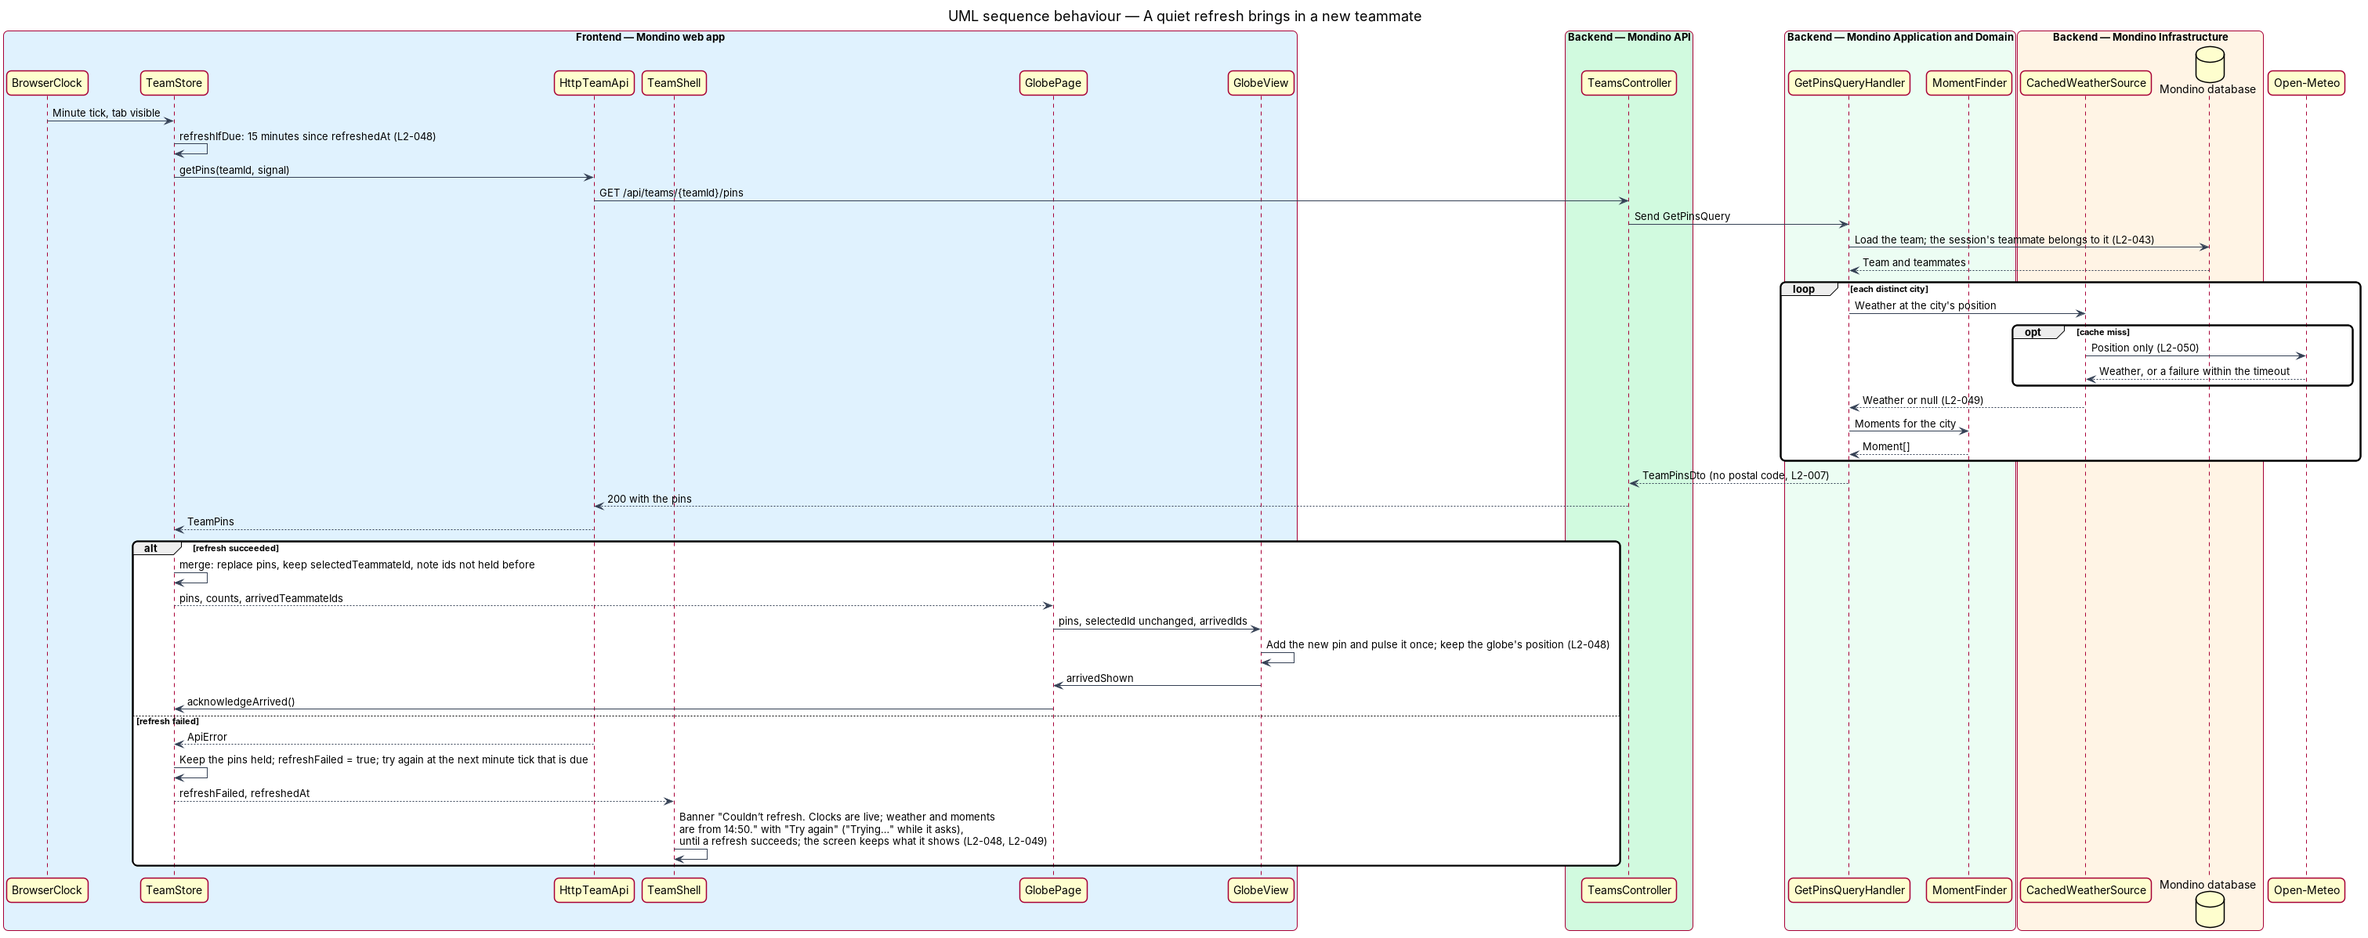
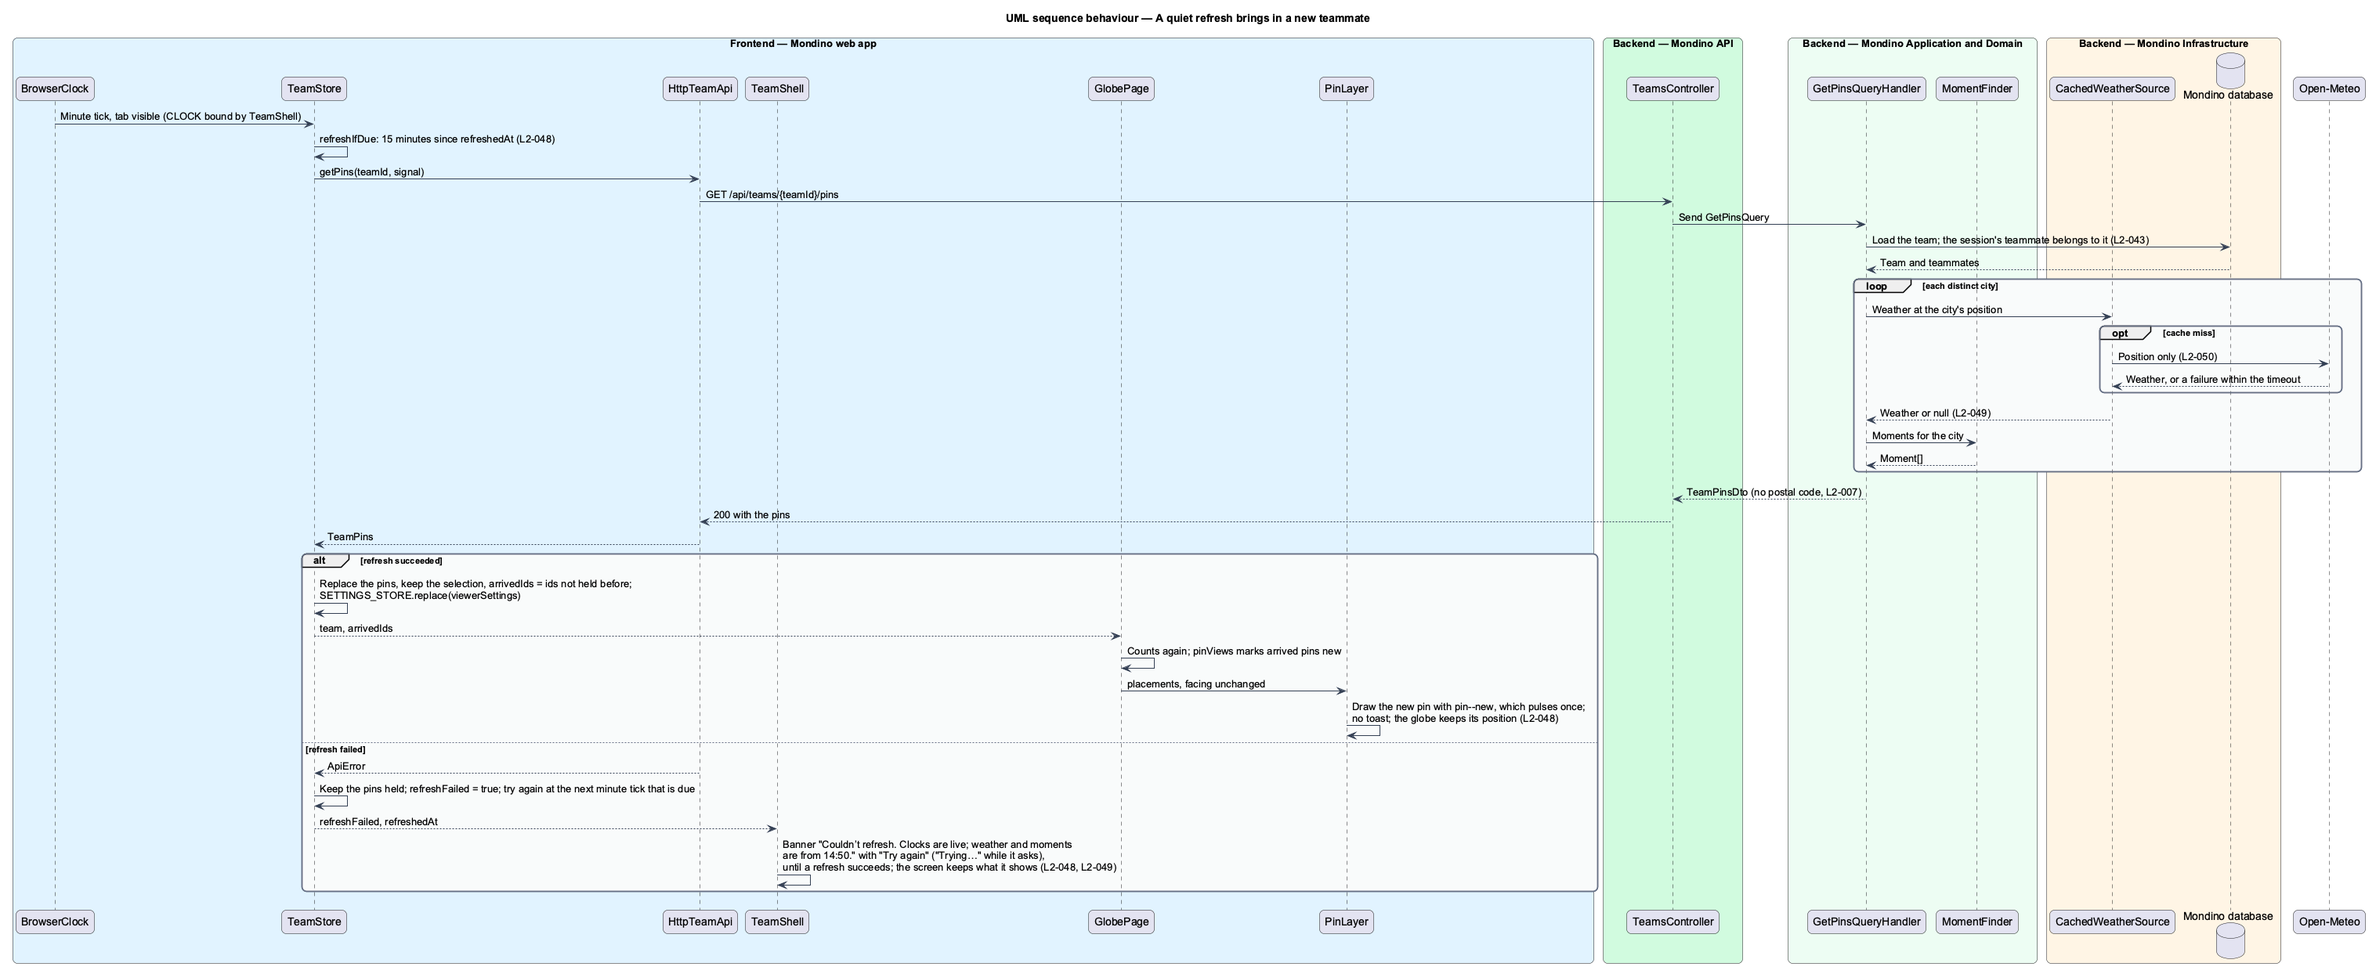
Design the quiet refresh on one shell clock, with the viewer's settings in the pins
ADR 0025 binds CLOCK in TeamShell for its four screens, rides the refresh on its
minute tick and carries the asker's own settings in GET /pins; the design, its
diagrams, the shared contracts and ADRs 0012 and 0023 follow, and the prompt
takes the mock's banner words.

Changed region(s): [[0.0, 0.0, 1.0, 1.0], [0.2488, 0.1853, 0.3733, 0.2162], [0.4355, 0.7104, 0.4666, 0.7412]]

diff --git a/docs/detailed-designs/team/keep-team-fresh/README.md b/docs/detailed-designs/team/keep-team-fresh/README.md
@@ -28,60 +28,68 @@ The slice runs from the `TeamStore` in the browser to the Mondino database and O
 
 Frontend:
 
-- **`TeamStore`** — signal store in `domain`'s `pins/`, provided at the route that holds the
-  Globe, Team, Moments and Profile & Settings screens. It injects `TEAM_API` and `CLOCK`.
-  `load(teamId)` reads the pins once when the route opens. An effect on the clock's minute tick
-  calls `refreshIfDue(now)`, which calls `refresh()` when `RefreshIntervalMinutes` (15) or more
-  have passed since `refreshedAt` and no request is pending (L2-048). The store has no
-  timer of its own.
-- **`BrowserClock`** — the one shared clock, bound to `CLOCK`. It ticks each minute, stops its
-  timer while the tab is hidden and ticks at once when the tab is shown again. Because the
-  store refreshes only on a tick, a hidden tab makes no refresh, and a tab hidden for 15 minutes
-  or more refreshes at once on return, with no visibility listener in the store.
-- **`merge(next)`** — replaces `pins` with the pins received. It keeps `selectedTeammateId` when
-  that teammate is still on the team and clears it when they have left. It records in
-  `arrivedTeammateIds` each teammate id that was not held before; the first load records none.
-  `pins` holds one team's pins, at most 500, and each refresh replaces them, so nothing
-  accumulates over a day.
-- **`arrivedTeammateIds`** — ids whose pins are new since the last refresh. `GlobePage` passes
-  them to `GlobeView` as `arrivedIds`; the globe pulses each new pin once (not under reduced
-  motion) and emits `arrivedShown`, and `GlobePage` calls `acknowledgeArrived()`, which empties
-  the list. `arrivedIds` and `arrivedShown` are an input and an output this design adds to
-  `GlobeView`.
-- **`loadState`** — `Loading`, `Ready` or `Failed`, for the first load only. A refresh never
-  changes it: a failed refresh keeps the pins held, sets `refreshFailed`, and the store tries
-  again at the next minute tick. `Loading` shows skeletons, on the Globe screen under the heading "Your team", and announces
-  "Loading your team…".
+- **`TeamStore`** — signal store in the app's `team/`, provided by `TeamShell`, the route
+  component that holds the Globe, Team, Moments and Profile & Settings screens. It injects
+  `TEAM_API`, `TEAM_MEMBERSHIP`, `SETTINGS_STORE` and `CLOCK`. `load()` reads the pins and the
+  moments once when the route opens. An effect on the clock's minute tick calls
+  `refreshIfDue(minute)`, which calls `refresh()` when `RefreshIntervalMinutes` (15) or more have
+  passed since `refreshedAt` and no request is pending (L2-048). The store has no timer of its
+  own.
+- **`BrowserClock`** — the one shared clock, bound to `CLOCK` by `TeamShell` for its four
+  screens, which no longer bind one each (ADR 0025). It ticks each minute, stops its timer while
+  the tab is hidden and ticks at once when the tab is shown again. Because the store refreshes
+  only on a tick, a hidden tab makes no refresh, and a tab hidden for 15 minutes or more
+  refreshes at once on return, with no visibility listener in the store.
+- **`refresh()`** — reads the pins and the moments again, side by side, with the same
+  `AbortSignal` as the first load. When the pins answer it replaces `team`: the selection
+  (`selectedId`, `heldIds`) is the screen's and is kept; a selected teammate who has left is
+  cleared by the Globe, as an address naming no pin is. It sets `arrivedIds` to each teammate id
+  that was not held before; the first load sets none. When the moments answer it replaces them;
+  when they fail the last ones stay. `team` holds one team's pins, at most 500, and each refresh
+  replaces them, so nothing accumulates over a day. A 401 or 404 forgets the membership, as the
+  first load does (`show-pins`).
+- **`arrivedIds`** — ids whose pins are new since the last refresh. `GlobePage` passes them,
+  with the just-joined teammate's id, to `pinViews` as the pins that are new; `PinLayer` draws
+  each with `pin--new`, which pulses once (not under reduced motion). No toast is shown for
+  them. The next refresh replaces the list.
+- **`state`** — `Loading`, `Ready`, `Failed` or `Forgotten`, for the first load only. A refresh
+  never changes it but to `Forgotten`: a failed refresh keeps the pins held, sets
+  `refreshFailed`, and the store tries again at the next minute tick. `Loading` shows skeletons,
+  on the Globe screen under the heading "Your team", and announces "Loading your team…".
   `Failed` shows the open screen's own message with "Try again", which calls `load` again: on
   the Globe screen "The globe didn’t load" and "We couldn’t reach Mondino to fetch your team.
   Check your connection — nothing you set has been lost."; on the Team screen "The team didn’t
   load" and "We couldn’t reach Mondino. Check your connection and try again.", with "Back to
   the globe".
 - **`refreshFailed`**, **`refreshing`** and **`refreshedAt`** — whether the last refresh
-  failed, whether one is pending, and when the pins held were read. While `refreshFailed` is true a banner (`Alert` as a banner, block `banner`,
-  `role="status"`) sits under the header of whichever screen is open: "Couldn’t refresh.
-  Clocks are live; weather and moments are from 14:50.", the time being `refreshedAt` on the
-  viewer's clock in tabular figures, with the button "Try again", which calls `refresh()` at
-  once. On the Team screen, which shows no list of moments, the banner names the weather alone
-  ("weather is from 14:50"). While that request is pending (`refreshing`) the button reads
-  "Trying…" and is not used again. `TeamShell`, the route component that provides the
-  `TeamStore`, renders it under `AppHeader`, where it also renders the toast. The screen keeps everything it showed. The next
+  failed, whether one is pending, and the minute the pins held were read. While
+  `refreshFailed` is true `TeamShell` renders `Banner` (`mo-banner`, block
+  `banner`, `role="status"`) under `AppHeader`, where it also renders the toast: "Couldn’t
+  refresh. Clocks are live; weather and moments are from 14:50.", the time being `refreshedAt`
+  on the viewer's clock in tabular figures, with the button "Try again", which calls
+  `refresh()` at once. On the Team screen, which shows no list of moments, the banner names the
+  weather alone ("weather is from 14:50"). While that request is pending (`refreshing`) the
+  button reads "Trying…" and is disabled. The screen keeps everything it showed. The next
   refresh that succeeds clears `refreshFailed` and the banner goes, with no message (L2-048,
   L2-049).
+- **The viewer's settings** — `TeamPins.viewerSettings` carries the viewer's own saved settings
+  (ADR 0025). Each load and refresh hands them to `SETTINGS_STORE.replace`, so a browser that
+  has never opened Profile & Settings draws in the saved unit, clock and kinds, and a choice
+  saved in another browser reaches this one at the next refresh. An answer without them leaves
+  the store as it was.
 - **`TeamApi`** (`TEAM_API`) and **`HttpTeamApi`** — contract and HTTP client in the `api`
   library. `getPins(teamId, signal)` calls `GET /api/teams/{teamId}/pins` and returns a
   `TeamPins`. The store passes an `AbortSignal` and aborts the pending request when the route
-  is destroyed.
-- **`TeamPins`** — type in `api`: `teamId`, `teamName`, `inviteToken`, `viewerTeammateId` and
-  `pins`. It mirrors `TeamPinsDto`.
-- **Moments across midnight** — `groupMoments(moments, pins, now)` in `moments/` is called from
-  computed signals that read the clock's minute tick, with today taken in the teammate's city.
-  When the clock passes a teammate's midnight, their moments move between Today, This week and
-  Later with no request (L2-048).
+  is destroyed, which is when the teammate leaves the four screens.
+- **`TeamPins`** — type in `api`: `teamId`, `teamName`, `inviteToken`, `viewerTeammateId`,
+  `pins` and `viewerSettings`. It mirrors `TeamPinsDto`.
+- **Moments across midnight** — the screens group moments (`weekMoments`, `groupMoments` in
+  `moments/`) in computed signals that read the clock's minute tick, with today taken in the
+  teammate's city. When the clock passes a teammate's midnight, their moments move between
+  Today, This week and Later with no request (L2-048).
 
-The globe keeps its position through a refresh because `GlobeView` receives a new `pins` value
-and an unchanged `selectedId`; `PinLayer` adds, moves and removes pins by teammate id and does
-not rebuild the scene.
+The globe keeps its position through a refresh because `GlobeView` receives new placements
+and an unchanged `facing`; `PinLayer` draws the pins over it and the scene is not rebuilt.
 
 Backend:
 
@@ -95,15 +103,16 @@ Backend:
   `TeamPinsDto`. A `PinDto` carries a null `Weather` when the teammate does not share it or the
   source fails, and its `WeatherState` (`Available`, `Unavailable` or `NotShared`) says which;
   the pin is still returned with its time zone.
-- **`TeamPinsDto`** — `TeamId`, `TeamName`, `InviteToken`, `ViewerTeammateId` and the `PinDto`
-  list. It carries no postal code and no local time.
+- **`TeamPinsDto`** — `TeamId`, `TeamName`, `InviteToken`, `ViewerTeammateId`, the `PinDto`
+  list and `ViewerSettings`, the asker's own `SettingsDto` (ADR 0025). It carries no postal code,
+  no local time, and no other teammate's settings.
 - **`CachedWeatherSource`** — decorator over `OpenMeteoWeatherSource` with a 5 second timeout
   (L2-049) and a circuit breaker. Weather is fresh for 15 minutes (L2-018), the interval of a
   refresh, so a refresh usually finds the weather in the cache; a miss sends Open-Meteo a
   position and nothing else.
 
-The interval is one constant, `TeamStore.RefreshIntervalMinutes`. Unit tests advance a fake
-clock bound to `CLOCK`; none sleeps. How the web app learns its team id when a teammate returns
+The interval is one constant, `refreshIntervalMinutes`. Unit tests move a fake clock bound to
+`CLOCK`, and the e2e specs move the page's clock; none sleeps. How the web app learns its team id when a teammate returns
 on another device is designed in `joining/sign-in` (L2-052), outside this feature.
 
 ## Requirements
@@ -155,7 +164,7 @@ In the web app, `BrowserClock` ticks `TeamStore`, which calls `HttpTeamApi`. In 
 
 A minute tick finds 15 minutes passed, and the store reads the pins again. The handler returns
 every teammate's pin with weather or null. The store merges them, keeps the selection, and
-reports the new teammate's id, whose pin the globe adds and pulses once. A failed refresh keeps
+reports the new teammate's id, whose pin is drawn and pulses once. A failed refresh keeps
 the pins held and shows the banner, with "Try again", until a refresh succeeds.
 
 ![Sequence diagram for a quiet refresh that brings in a new teammate](diagrams/sequence-quiet-refresh.png)

diff --git a/docs/adr/0025-the-refresh-rides-the-shells-clock.md b/docs/adr/0025-the-refresh-rides-the-shells-clock.md
@@ -1,0 +1,45 @@
+# 0025: The teammate screens share one clock, the refresh rides its minute, and the pins carry the viewer's own settings
+
+**Status:** Accepted (journey 25, Keep the team fresh). Changes how
+[ADR 0012](0012-drawing-the-globe.md) binds `CLOCK` on the teammate screens, and takes up the
+alternative [ADR 0023](0023-settings-kept-by-the-backend.md) rejected.
+
+## Context
+
+L2-048 asks a screen left open to read the team again every 15 minutes while it is visible, never
+while the tab is hidden, and at once when a tab hidden longer is shown again. `TeamStore` is
+provided by `TeamShell`, above Globe, Team, Moments and Profile & Settings, but each of those
+screens bound `CLOCK` to its own `BrowserClock` (ADR 0012), so the store had no clock to read and
+a timer of its own would have been a second clock that does not rest. Separately, ADR 0023 left a
+browser that has never opened Profile & Settings drawing in its country's defaults, and named
+this journey to revisit carrying the settings with the pins.
+
+## Decision
+
+- **`TeamShell` binds `CLOCK` for its four screens**, which no longer bind their own. One
+  `BrowserClock` then drives every local time on whichever screen is open and the store's
+  refresh; it goes with the shell. Join and Create Team keep their own, as ADR 0012 says.
+- **The refresh rides the clock's minute.** An effect on `CLOCK.minute` calls
+  `refreshIfDue(minute)`, which refreshes when 15 minutes or more have passed since `refreshedAt`
+  (the minute of the last good read) and none is pending. `BrowserClock` holds no timer while the
+  tab is hidden and ticks at once on return, so a hidden tab makes no request and a tab hidden 15
+  minutes or more refreshes on return, with no listener or timer in the store. A failed refresh
+  is tried again at each minute tick, and "Try again" on the banner at once.
+- **The pins carry the viewer's own settings.** `TeamPinsDto.ViewerSettings` is the asker's
+  `SettingsDto`; no other teammate's settings or switches are in it. Each load and refresh hands
+  it to `SETTINGS_STORE.replace`. An answer without it (an older backend, a fixture) leaves the
+  store as it was.
+
+## Consequences
+
+- A browser that has never opened Profile & Settings draws the saved unit, clock and kinds as
+  soon as the team answers, and a choice saved in another browser arrives at the next refresh.
+  The first paint before the answer still uses what the browser kept, or the country's defaults.
+- The answer that describes the team now carries one part that belongs to the asker alone, as
+  `ViewerTeammateId` and `InviteToken` already do. A test that another teammate's read carries no
+  switch now reads the switches it does carry as the reader's own.
+- The clock lives as long as the shell, not one screen; leaving the four screens releases it with
+  the store and its pending requests.
+- Rejected: a refresh timer in the store (a second clock, and one more thing to rest while
+  hidden); reading `GET /me` from the shell (a second request each refresh, and the postal code
+  sent to the browser every 15 minutes for nothing).

diff --git a/docs/prompts/25-keep-the-team-fresh-prompt.md b/docs/prompts/25-keep-the-team-fresh-prompt.md
@@ -5,7 +5,9 @@
 A screen left open stays true. Every 15 minutes while visible, and at once when a tab hidden for longer is
 shown again, the team's pins, weather and moments are read again without losing the selection or the globe's
 position. A teammate who joined meanwhile appears and pulses. When a refresh fails the screen keeps its last
-data, the clocks keep ticking, and a banner says "Couldn't refresh just now." with "Try now".
+data, the clocks keep ticking, and a banner under the header says "Couldn’t refresh. Clocks are live; weather
+and moments are from 14:50." (on Team, "weather is from 14:50") with "Try again", which reads "Trying…" while
+it asks (the mock `notifications/refresh-banner/warning.html`).
 
 Journey 25 of `docs/journeys.md`. Requirements: L2-048 (`docs/specs/L2.md`).
 
@@ -88,7 +90,7 @@ Builds on: journeys 10, 15 and 19.
      none while hidden, at once on return after more than 15 minutes; unit tests on a fake clock.
   2. Merging a refresh: selection and globe position kept, arrived pins pulse once, counts update.
   3. Moments moving between Today, This week and Later at their place's midnight.
-  4. `refreshFailed`: the banner in `TeamShell` with "Try now", gone silently when a refresh works; pending
+  4. `refreshFailed`: the banner in `TeamShell` with "Try again", gone silently when a refresh works; pending
      requests cancelled on leaving.
 - For each slice:
   - Write the Given-When-Then criteria, from the acceptance criteria in `docs/specs/L2.md`.

diff --git a/docs/adr/0023-settings-kept-by-the-backend.md b/docs/adr/0023-settings-kept-by-the-backend.md
@@ -50,8 +50,10 @@ them. `GetPinsQueryHandler` already applies both switches for every other viewer
 - The display settings change only the viewer's own screens; the switches change only what the
   backend gives other teammates, so nothing a teammate switched off reaches another browser to
   be hidden there.
-- Rejected: carrying the viewer's settings in `GET /pins`, which every teammate screen reads. It
-  would bring them to a new browser sooner, but it puts one teammate's own choices into the
-  answer that describes the team, and changes every spec's team fixture; journey 25 (keep the
-  team fresh) may revisit it. Rejected: keeping the switches in the browser, which would let a
+- Rejected here: carrying the viewer's settings in `GET /pins`, which every teammate screen
+  reads. It would bring them to a new browser sooner, but it puts one teammate's own choices
+  into the answer that describes the team, and changes every spec's team fixture. Journey 25
+  took it up ([ADR 0025](0025-the-refresh-rides-the-shells-clock.md)): the pins carry the
+  asker's own settings alone, each load and refresh replaces `SETTINGS_STORE` with them, and a
+  fixture without them leaves the store as it was. Rejected: keeping the switches in the browser, which would let a
   teammate's browser, not the backend, decide what others see.

diff --git a/docs/adr/README.md b/docs/adr/README.md
@@ -32,5 +32,6 @@ Playwright, WCAG) needs a record here that gives its reason.
 | [0022](0022-a-teammates-own-lookup-limit.md) | A teammate's own postal code lookup is limited to 10 a minute for the teammate, so the rate limiter runs after the session is read | Accepted |
 | [0023](0023-settings-kept-by-the-backend.md) | A teammate's settings are kept by the backend, and the browser keeps the display ones to draw the first screen | Accepted; extends 0020 |
 | [0024](0024-what-leaving-deletes.md) | Leaving deletes the teammate's row and their sign-in links, ends the session by its absence, and keeps an empty team | Accepted; changes one line of 0011 |
+| [0025](0025-the-refresh-rides-the-shells-clock.md) | The teammate screens share one clock, the refresh rides its minute, and the pins carry the viewer's own settings | Accepted; changes how 0012 binds the clock; takes up an alternative 0023 rejected |
 
 Not decided yet: nothing a journey has reached.

diff --git a/docs/adr/0012-drawing-the-globe.md b/docs/adr/0012-drawing-the-globe.md
@@ -89,7 +89,8 @@ The constraints are the requirements' and the instructions':
   `domain`) moves the sun once a minute and rests while the tab is hidden. Each screen that reads
   the time binds `CLOCK` to its own `BrowserClock` in its component's providers, so its timer
   and listener go with the screen and its code stays out of the initial chunk; Join and Create
-  Team bind it the same way.
+  Team bind it the same way. (Since ADR 0025, `TeamShell` binds one for Globe, Team, Moments and
+  Profile & Settings, which the team's refresh also reads.)
 - **Released on destroy.** `GlobeScene.dispose` cancels the pending frame, removes the canvas's
   context-loss listener, disposes of every geometry, material and texture, closes the decoded
   images, and calls `renderer.dispose()` and `renderer.forceContextLoss()`. `GlobeView` aborts

diff --git a/docs/detailed-designs/README.md b/docs/detailed-designs/README.md
@@ -213,7 +213,8 @@ Every L2 requirement, L2-001 to L2-057, is realised by exactly one feature.
 - `GlobeScene.setPalette` takes a `GlobePalette` read from the `--color-globe-*` tokens; the
   globe is drawn by three.js from `globe.glb` and two mask textures built in Blender
   (ADR 0012), and its outline and shadow are SVG circles around the canvas. `CLOCK`'s
-  `minute` signal ticks once a minute (`BrowserClock`, bound by each screen that reads the time), and
+  `minute` signal ticks once a minute (`BrowserClock`, bound by `TeamShell` for its four screens and
+  by Join and Create Team each, ADR 0025), and
   `TeamStore.refreshing` is true while a refresh is pending.
 
 ## Not decided yet
